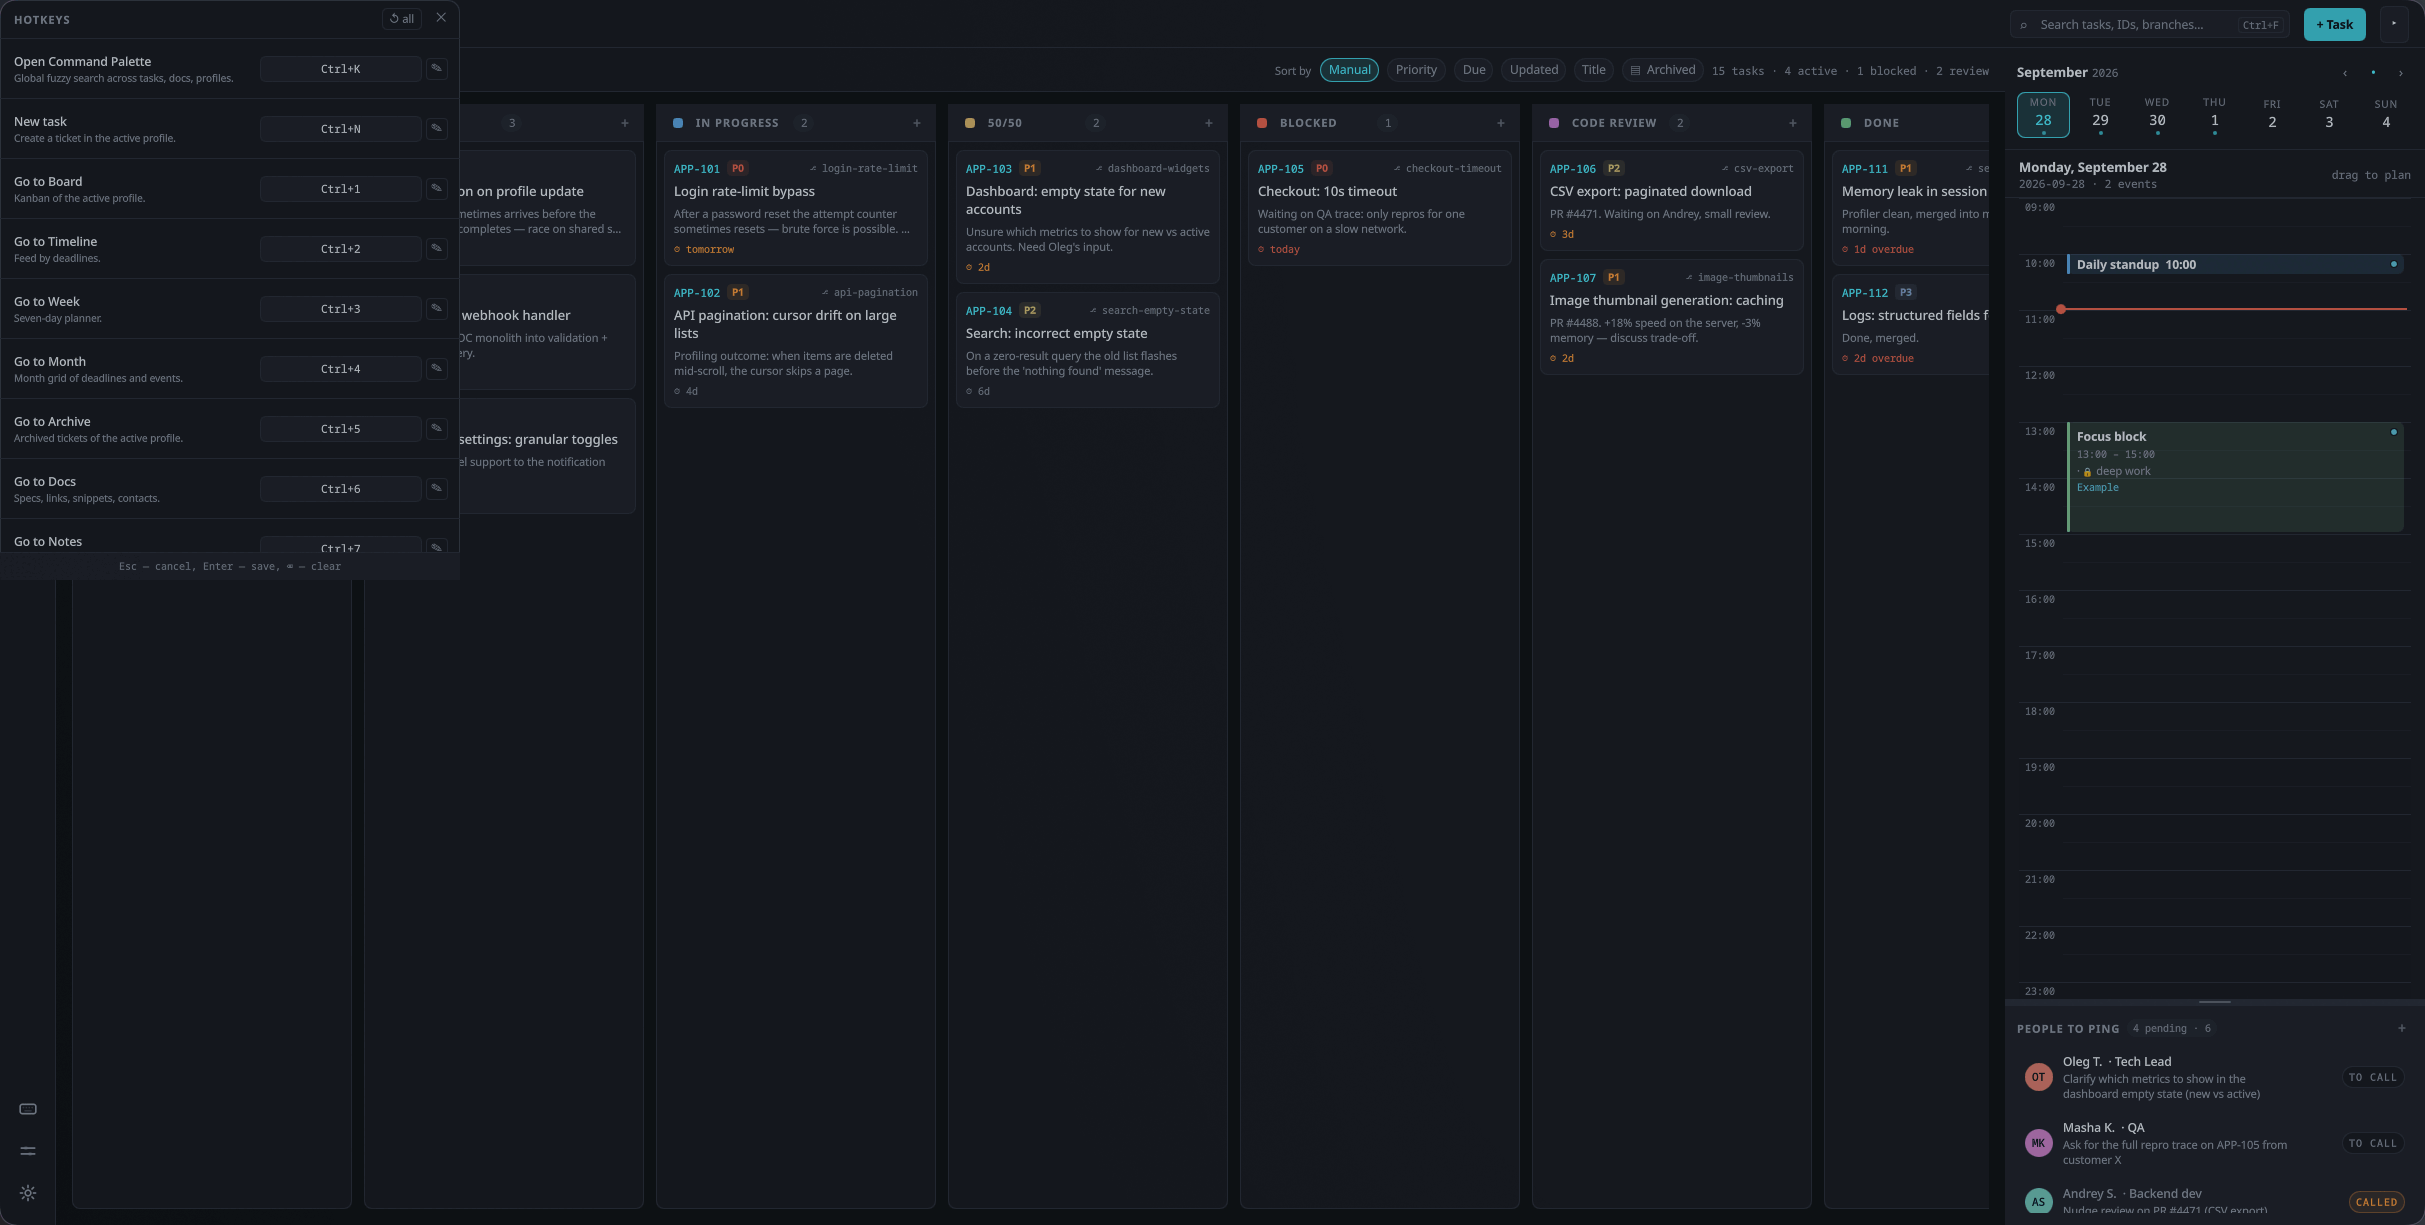
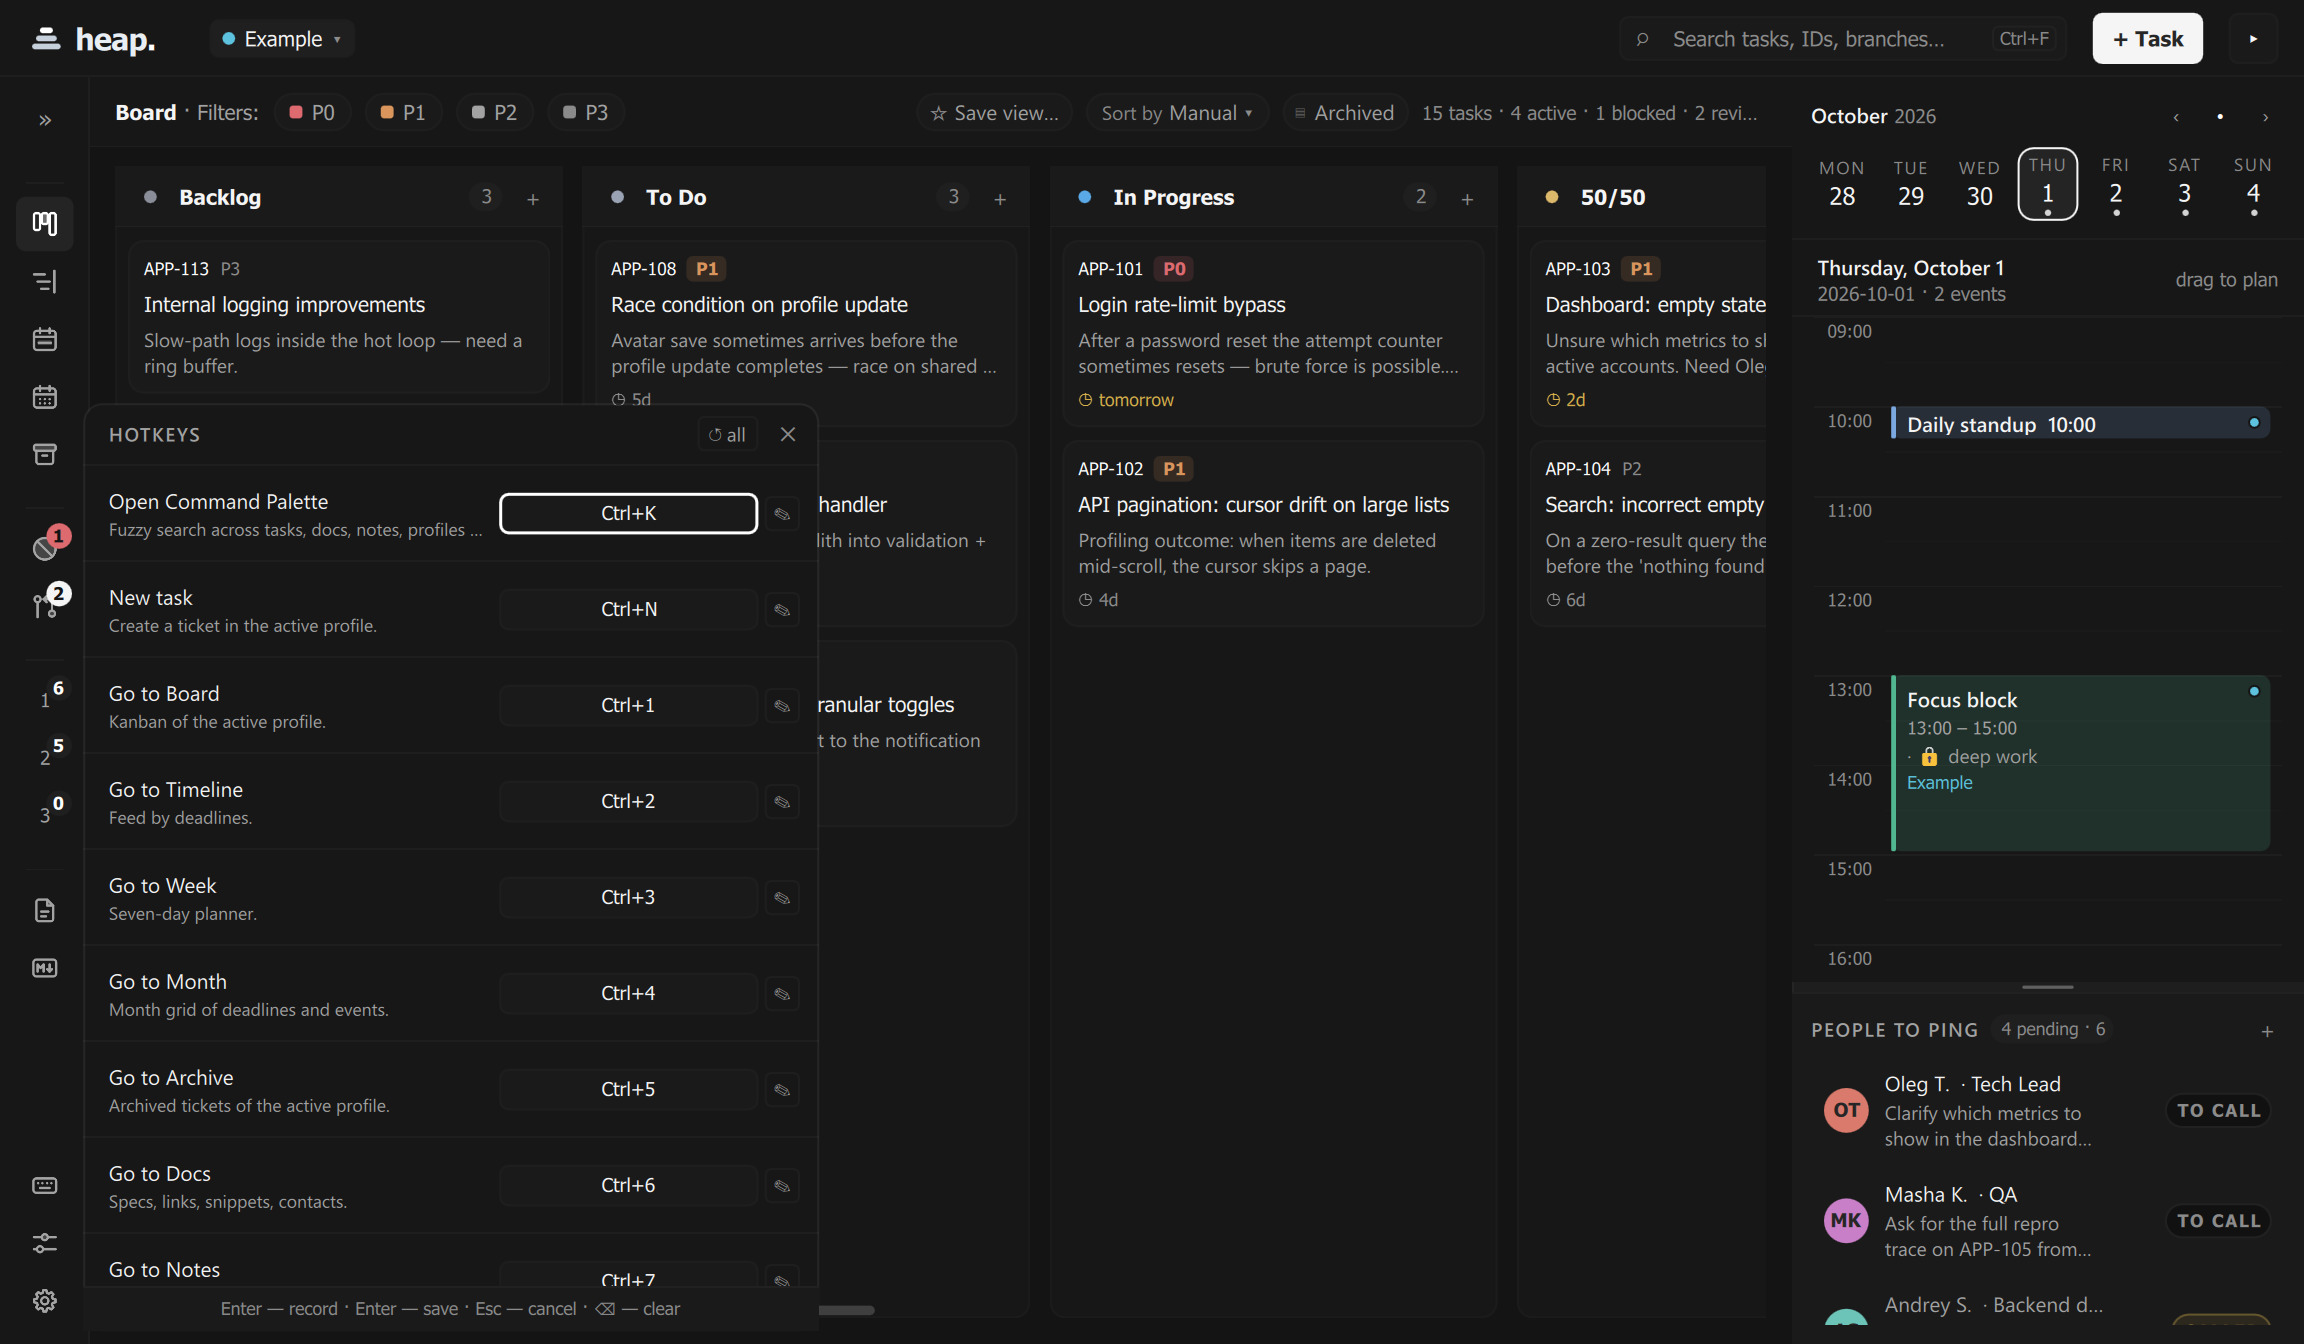
docs: reshoot screenshots on 0.5.4, Minimal dark + soft
Every screenshot is retaken on 0.5.4 with the default theme (Minimal
dark, soft contrast) at a scale that stays readable once GitHub shrinks
it to the content column: 1440x840 logical at 1.6x, sidebar collapsed,
right panel at 320px, calendar scrolled to the working day.

The README now uses tight crops for its feature blocks (quick-capture,
the git banner, integrations, notes in split view) instead of shrinking
whole windows. The git block is corrected: the card no longer shows its
branch, the top bar shows the task, its PR and CI.

diff --git a/README.md b/README.md
@@ -20,7 +20,7 @@
 </div>
 
 <p align="center">
-  <img src="docs/assets/img/screens/board-kanban.png" width="100%" alt="heap. board: kanban columns with ticket ids and branches, today's calendar, people to ping">
+  <img src="docs/assets/img/screens/board-kanban.png" width="100%" alt="heap. board: kanban columns, the git banner for the task you're on, today's calendar, people to ping">
 </p>
 
 Your tickets from GitHub, Jira, GitLab and nine more trackers, your meetings and focus time, your notes — side by side
@@ -34,9 +34,13 @@ on your own disk.
 Press `Ctrl+Shift+Space` from anywhere and write one line. heap. works out what it is and where it belongs — in
 English or Russian.
 
+<p align="center">
+  <img src="docs/assets/img/readme/quick-capture.png" width="70%" alt="Quick-capture parsing a ticket id, priority, date, label and mention out of one line">
+</p>
+
 | You type | You get |
 | --- | --- |
-| `APP-231 fix login race !! tomorrow #auth` | task `APP-231`, priority P1, due tomorrow, labelled `auth` |
+| `APP-231 fix login race !! tomorrow 15:00 #auth` | task `APP-231`, priority P1, due tomorrow at 15:00, labelled `auth` |
 | `1:1 with @anna thursday 12:00` | a 1:1 on Thursday's calendar with Anna as an attendee |
 | `focus refactor parser 10:00` | a focus block on today's calendar |
 | `review PRs every weekday 10:00` | a task that repeats every weekday at 10:00 |
@@ -46,8 +50,13 @@ Full syntax: [First day in heap.](docs/TUTORIAL.md#quick-capture-syntax)
 
 ### A board that knows your branch
 
-heap. watches your working copy. Check out `feature/app-101-login-rate-limit` and card `APP-101` shows its branch;
-a banner shows the focused repo's branch and PR state. No manual linking.
+heap. watches your working copy. Check out a branch with the ticket in its name — `feature/app-101-login-rate-limit`
+— and the top bar says you're working on `APP-101`, with its pull request and CI checks one click away. The card
+carries the PR state too. Need a branch? Create one from the task's menu. No manual linking.
+
+<p align="center">
+  <img src="docs/assets/img/readme/git.png" width="460" alt="Top bar: Working on APP-101, PR #214 open, CI passing; the APP-101 card shows PR #214 open">
+</p>
 
 ### Every tracker, one board
 
@@ -57,7 +66,7 @@ Move a card to Done and the issue is closed upstream (GitHub, GitLab, Gitea, For
 keychain. Mattermost brings in the people you work with. [More →](docs/INTEGRATIONS.md)
 
 <p align="center">
-  <img src="docs/assets/img/screens/settings-integrations.png" width="80%" alt="Tracker integrations in Settings">
+  <img src="docs/assets/img/readme/integrations.png" width="80%" alt="Tracker integrations in Settings">
 </p>
 
 ### Plan your day, not just your backlog
@@ -66,21 +75,18 @@ Tasks and calendar share one window. Drag a task onto the day to book a focus bl
 what still needs a slot. Repeating events with this-and-following edits, all-day and past-midnight events, meeting
 reminders, `.ics` import and export.
 
-<table>
-<tr>
-  <td width="65%" valign="top"><img src="docs/assets/img/screens/board-week.png" alt="Week view"></td>
-  <td width="35%" valign="top"><img src="docs/assets/img/screens/calendar-focus.png" alt="Day calendar with a focus block"></td>
-</tr>
-</table>
+<p align="center">
+  <img src="docs/assets/img/screens/board-week.png" width="100%" alt="Week view with events, deadlines and the Needs a slot rail">
+</p>
 
 ### Notes that link to your work
 
 Markdown notes with folders, a daily note, task lists, tables and highlighted code. `[[Wiki-links]]` with backlinks,
-`#APP-231` points at the ticket, `@lena` at the person. Import and export as a folder of `.md` files — Obsidian
+`#APP-101` points at the ticket, `@masha` at the person. Import and export as a folder of `.md` files — Obsidian
 works with the same files. Long-form docs, snippets and contact cards live next door.
 
 <p align="center">
-  <img src="docs/assets/img/screens/board-notes.png" width="100%" alt="Notes with a live rendered view">
+  <img src="docs/assets/img/readme/notes.png" width="100%" alt="Notes in split view: markdown on the left, rendered on the right">
 </p>
 
 ### Never reach for the mouse
